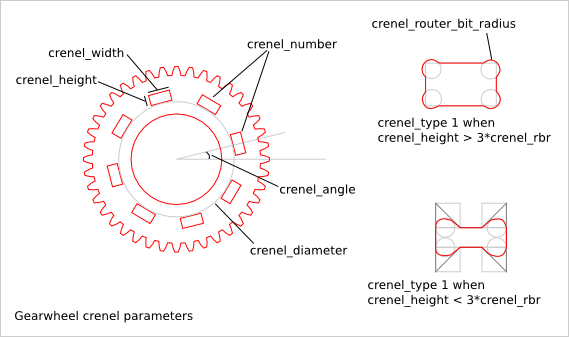
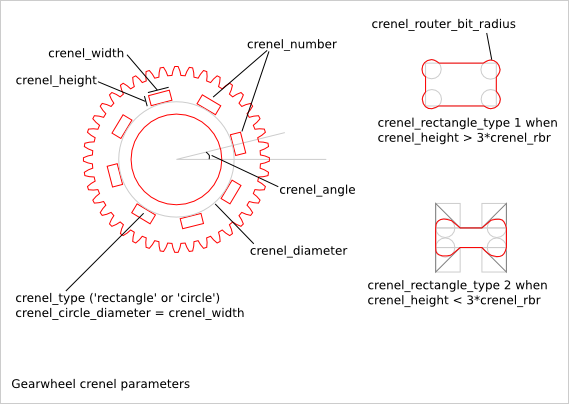
[gearwheel] add crenel_type circle

diff --git a/docs/cnc25d_presentation.rst b/docs/cnc25d_presentation.rst
@@ -253,6 +253,7 @@ Released on 2013-11-01
 
 * add crenels to the gearwheel
 * epicyclic
+* axle_lid
 * gearlever
 * gear_train  
 * hexa_bone

diff --git a/CHANGES.rst b/CHANGES.rst
@@ -8,6 +8,7 @@ Release History
 
 * add crenels to the gearwheel
 * epicyclic
+* axle_lid
 * gearlever
 * gear_train  
 * hexa_bone
